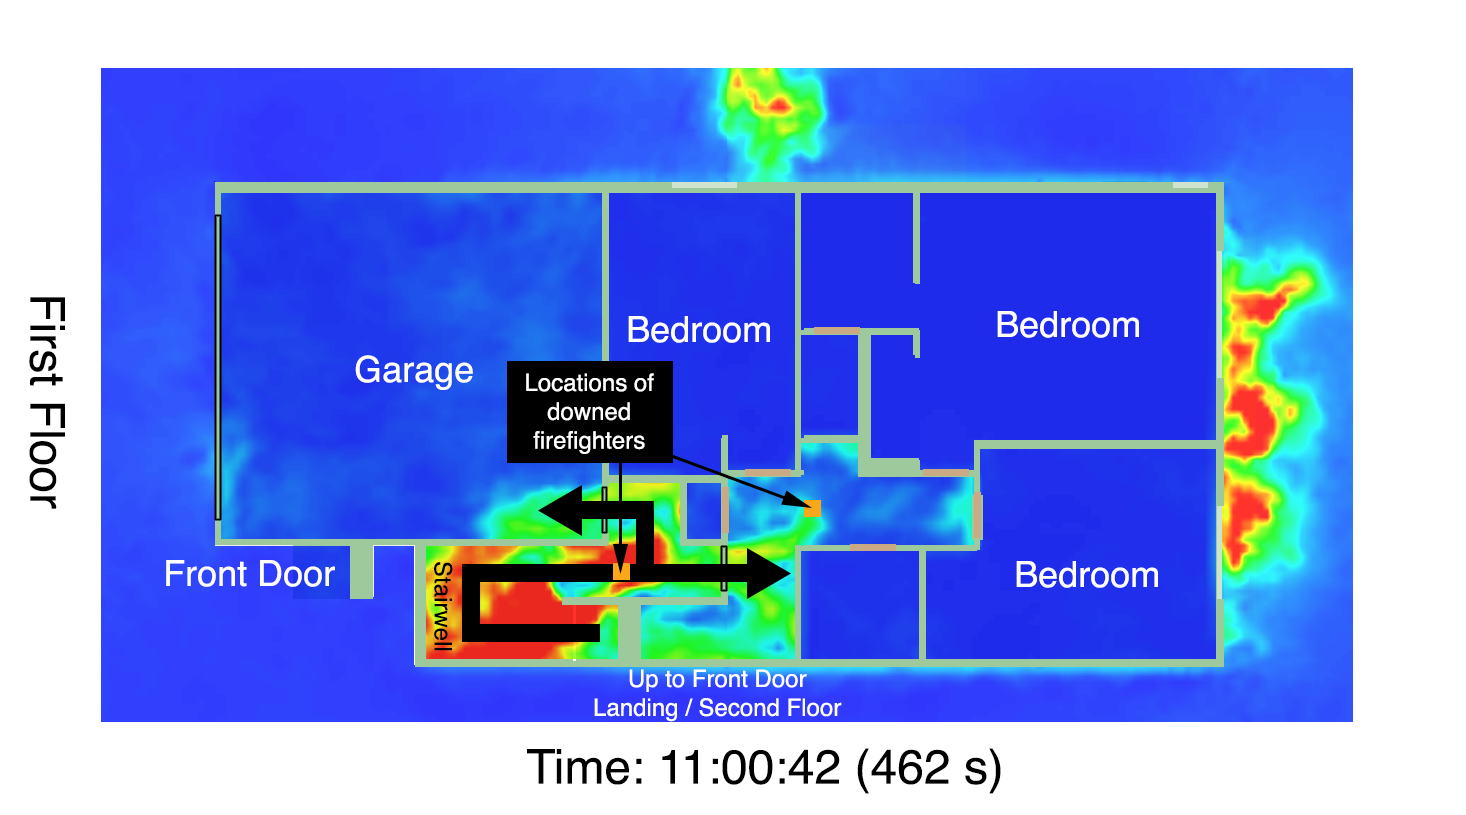
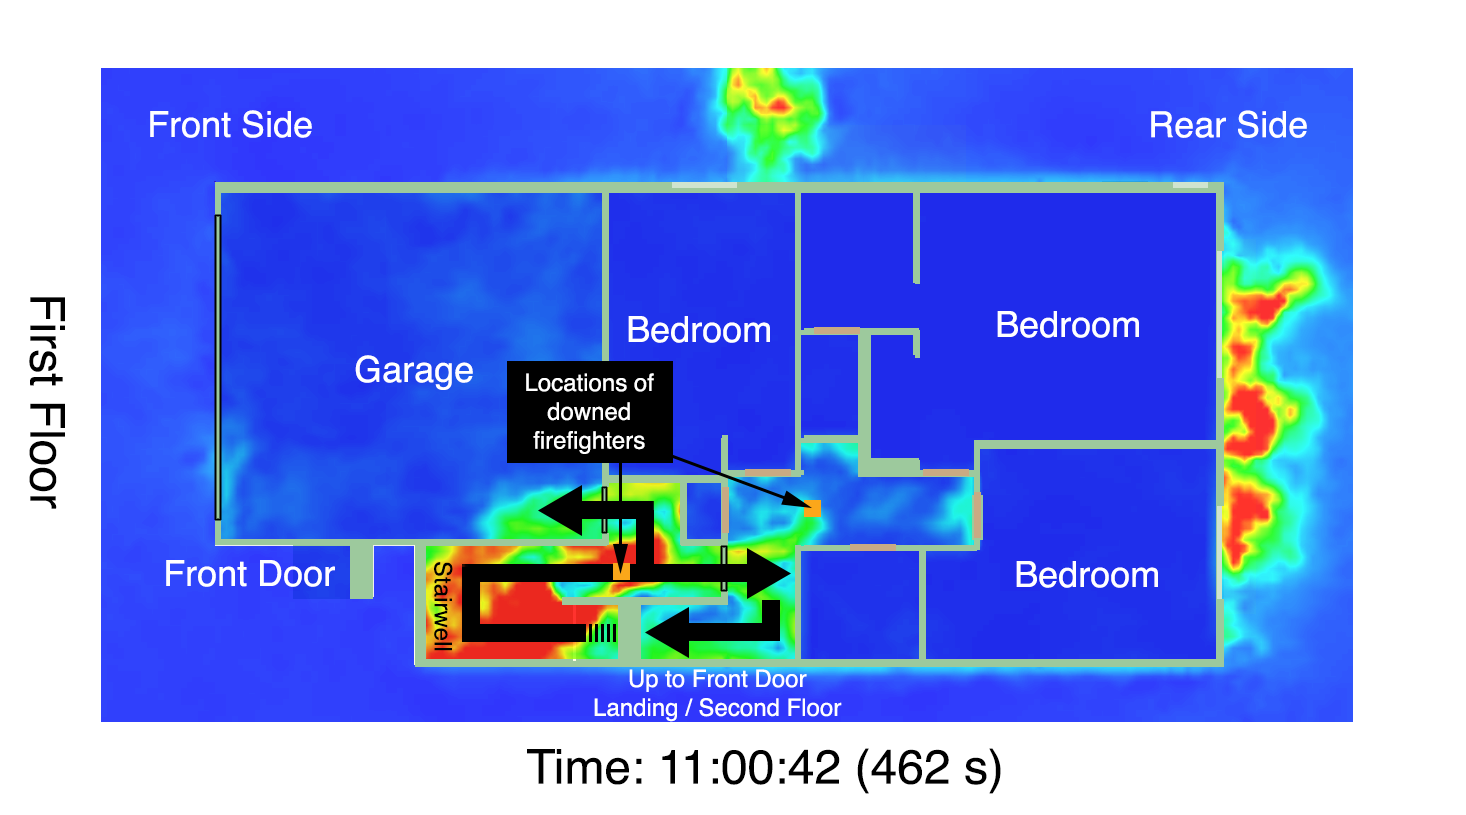
San Francisco: Edits to flow path figure

Changed region(s): [[0.7674, 0.1227, 0.8902, 0.184], [0.399, 0.7362, 0.5525, 0.7975], [0.0921, 0.1227, 0.2149, 0.184]]

diff --git a/Studies/2011_San_Francisco/Report/San_Francisco_Fire.tex b/Studies/2011_San_Francisco/Report/San_Francisco_Fire.tex
@@ -837,7 +837,7 @@ The arrows shown in Fig.~\ref{fig:flow_path_top} indicate the simulated flow dir
 \includegraphics[width=6.5in]{../Figures/Flow_Path_Top_Vel_462_s_First_Floor}
 \includegraphics[width=6.5in]{../Figures/Flow_Path_Top_Vel_462_s_Basement_Floor}
 \caption[Top view of the simulated flow path in the interior stairwell.]
-{Top view of the simulated flow path on the first floor and basement floor 120~s after the first rear basement window failure. The arrows indicate the direction of flow. Two arrows located at a door or window indicate bi-directional flow at a vent opening. The maximum velocity is indicated by the red contour and corresponds to 9~m/s (20~mph).}
+{Top view of the simulated flow path on the first floor and basement floor 120~s after the first rear basement window failure. The arrows indicate the direction of flow. Two arrows located at a door or window indicate bi-directional flow at a vent opening. The dashed arrow indicates a continuation of flow from the basement towards the first floor. The maximum velocity is indicated by the red contour regions and corresponds to 9~m/s (20~mph).}
 \label{fig:flow_path_top}
 \end{figure}
 
